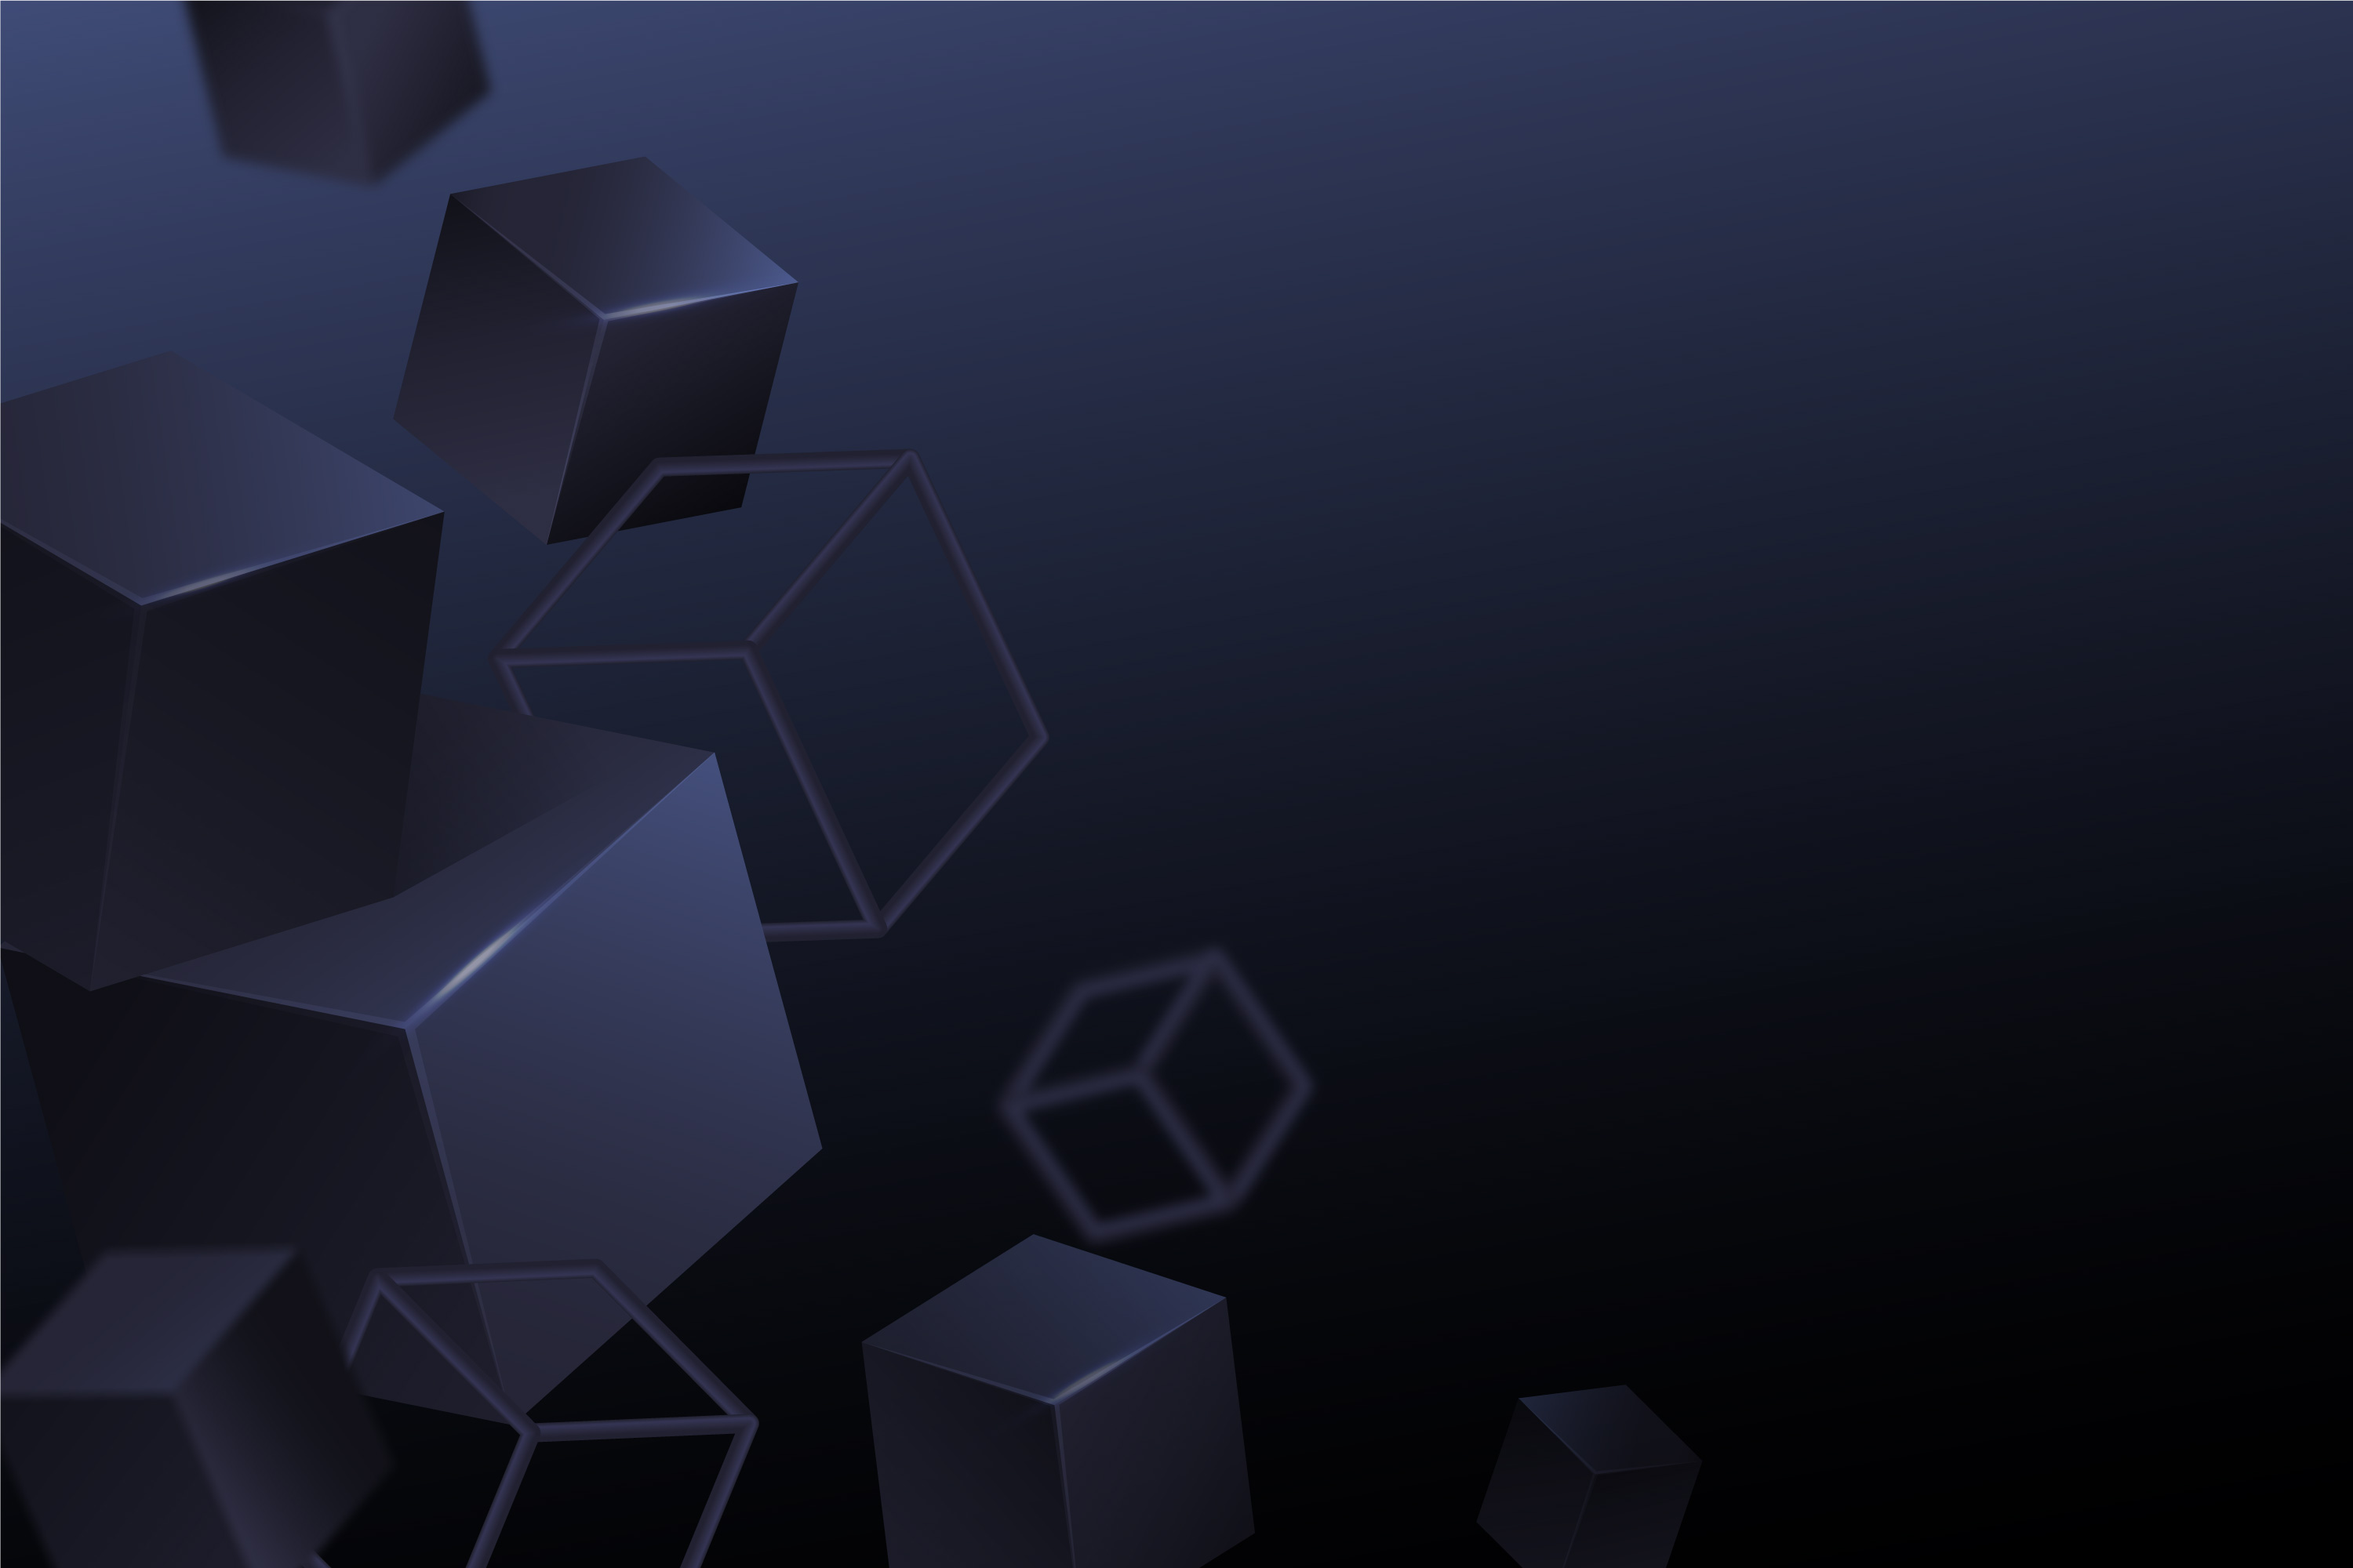
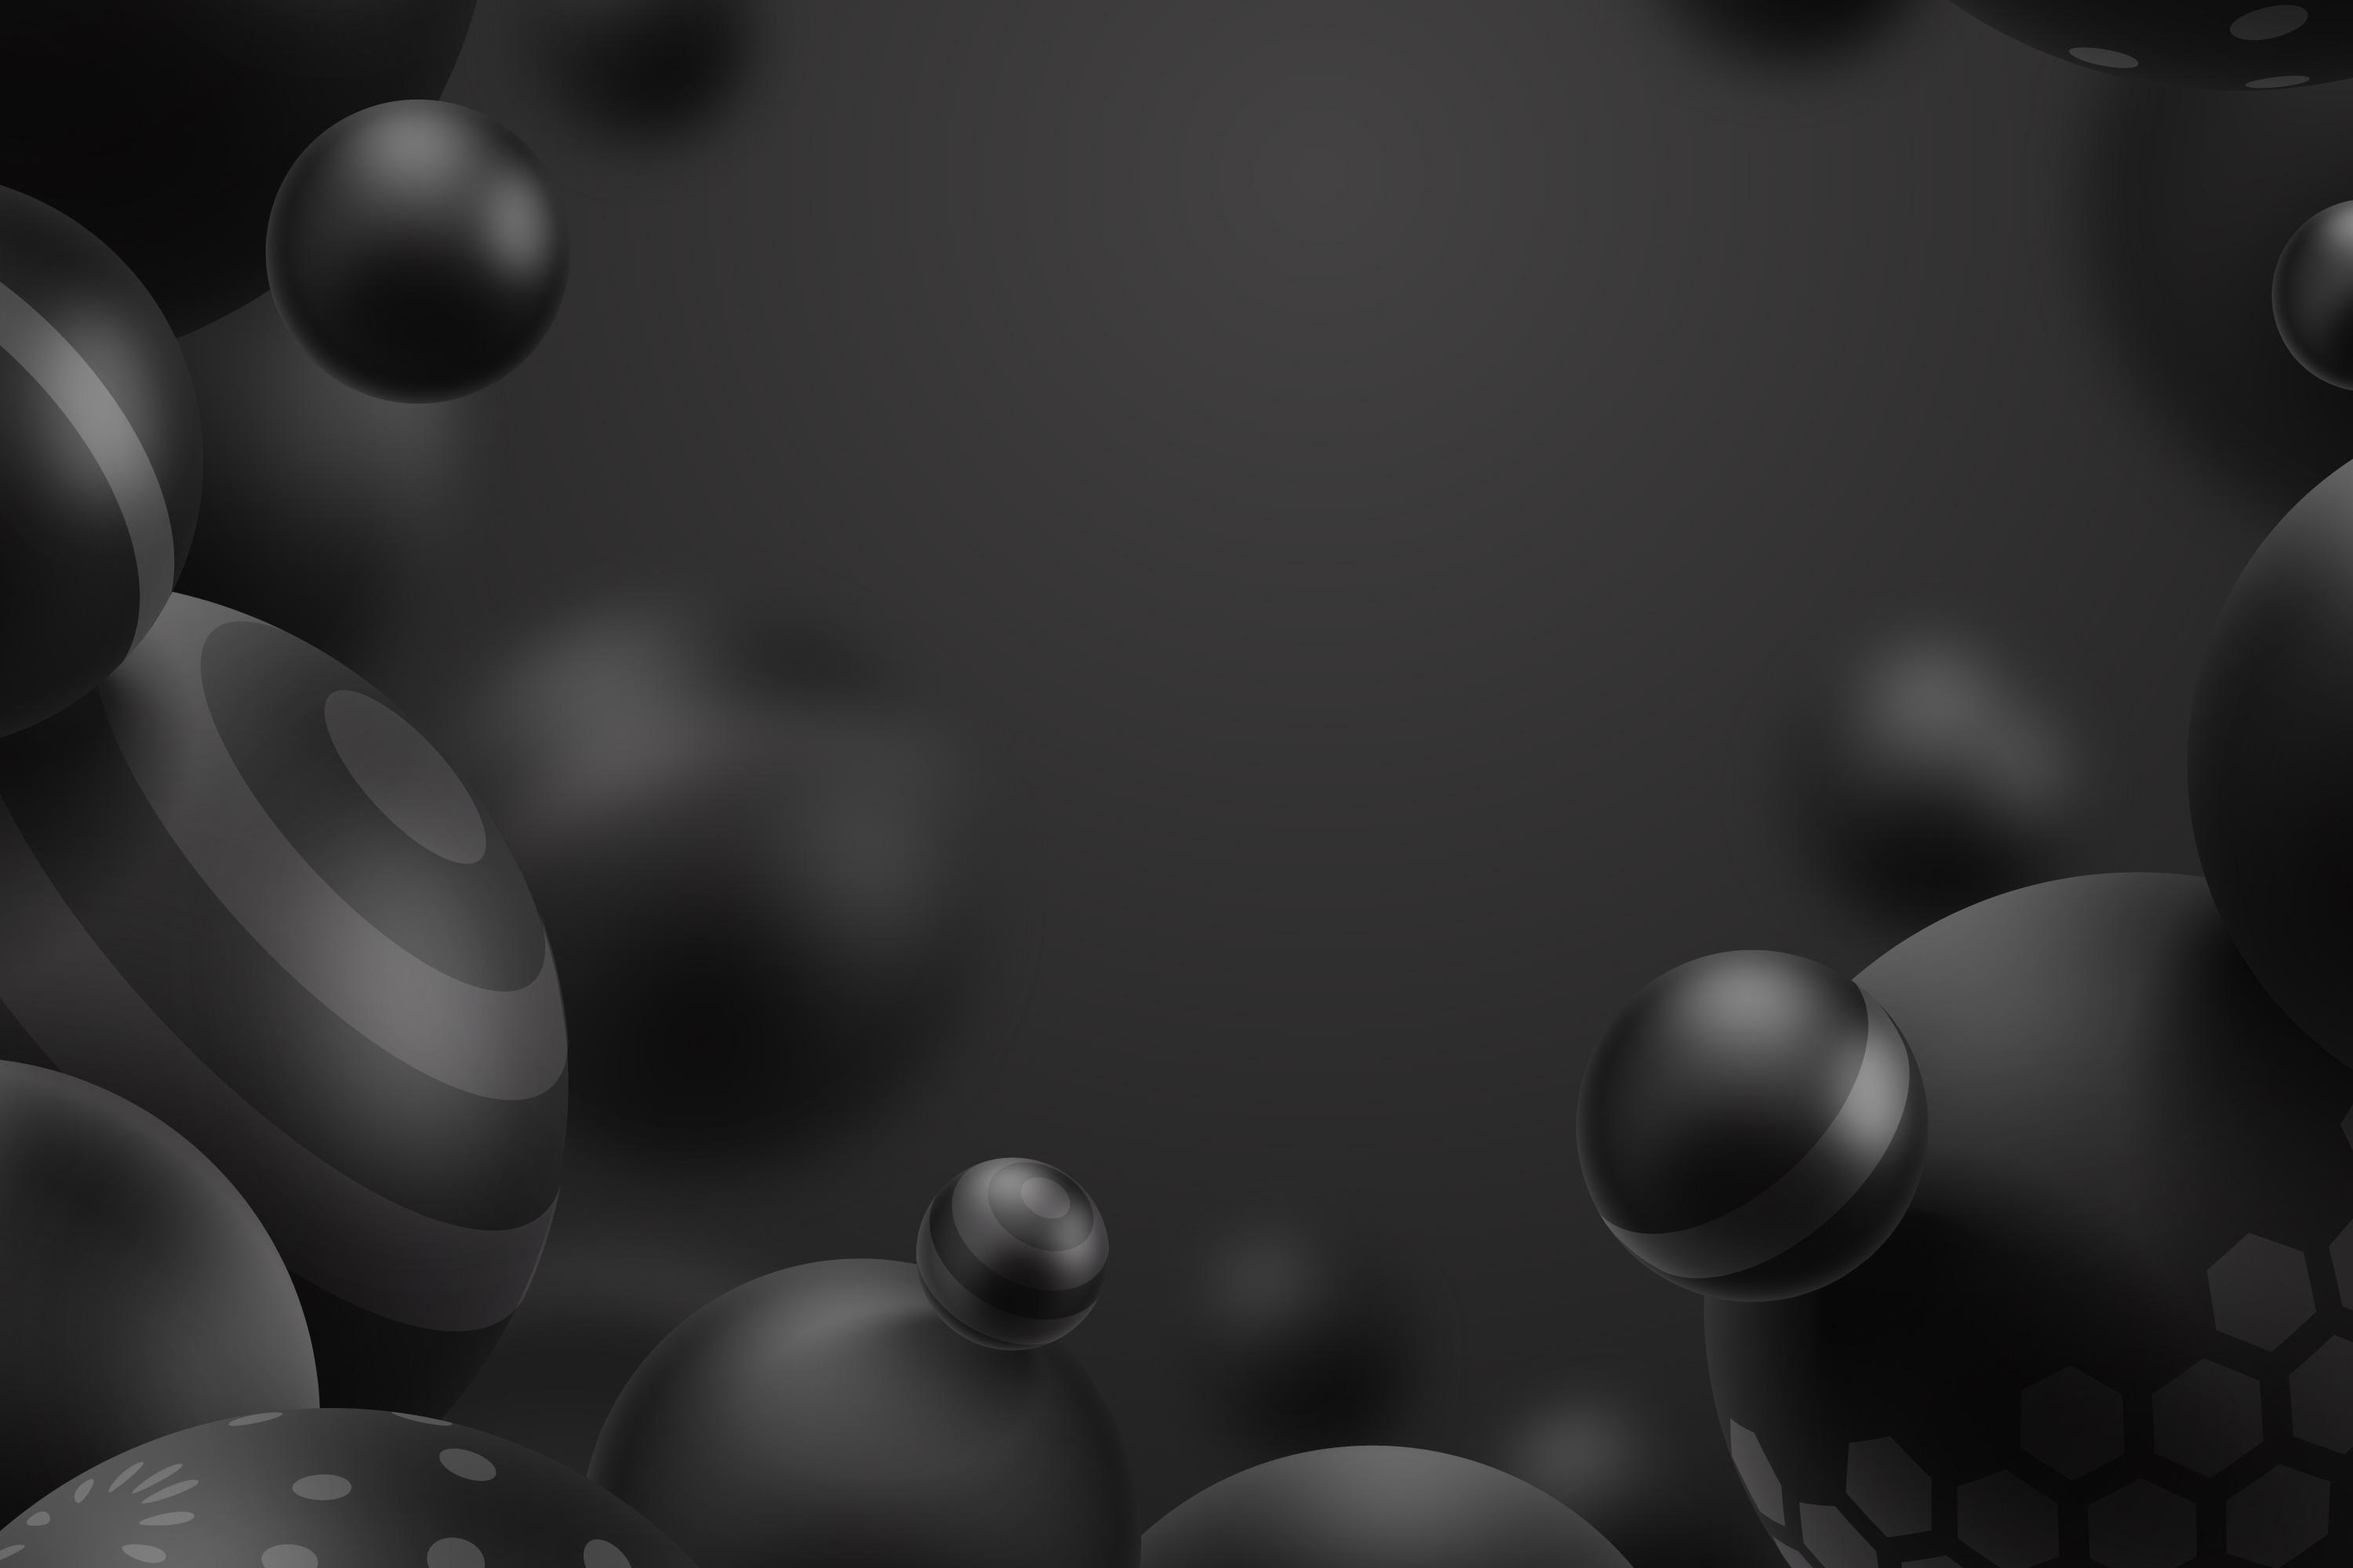
Updates background and about section

diff --git a/helper/data.tsx b/helper/data.tsx
@@ -17,6 +17,13 @@ import {
   SiFramer,
   SiGraphql,
   SiMysql,
+  SiPostgresql,
+  SiMongodb,
+  SiMongoose,
+  SiLaravel,
+  SiNestjs,
+  SiExpress,
+  SiBootstrap,
 } from "react-icons/si";
 
 export const aboutData = [
@@ -24,29 +31,33 @@ export const aboutData = [
     title: "skills",
     info: [
       {
-        title: "Web Development",
+        title: "Programing Languages",
+        stage: "",
+        icons: [<FaJs key={1} />, <FaPhp key={2} />],
+      },
+      {
+        title: "Database",
         stage: "",
         icons: [
-          <FaHtml5 key={1} />,
-          <FaCss3 key={2} />,
-          <FaJs key={3} />,
-          <FaReact key={4} />,
-          <FaPhp key={5} />,
-          <SiNextdotjs key={6} />,
-          <FaMagento key={7} />,
-          <SiTailwindcss key={8} />,
-          <FaNodeJs key={9} />,
-          <SiGraphql key={10} />,
-          <SiMysql key={11} />,
+          <SiMysql key={3} />,
+          <SiPostgresql key={4} />,
+          <SiMongodb key={5} />,
+          <SiMongoose key={6} />,
         ],
       },
       {
-        title: "UI / UX",
-        icons: [<SiFramer key={1} />],
+        title: "Web Framework",
+        stage: "",
+        icons: [
+          <SiLaravel key={7} />,
+          <SiNestjs key={8} />,
+          <SiExpress key={9} />,
+        ],
       },
       {
-        title: "Word Processing",
-        icons: [<SiMicrosoftword key={2} />],
+        title: "Css Framework",
+        stage: "",
+        icons: [<SiBootstrap key={10} />, <SiTailwindcss key={11} />],
       },
     ],
   },
@@ -54,23 +65,48 @@ export const aboutData = [
     title: "experience",
     info: [
       {
-        title: "Frontend Developer - EVE",
-        stage: "July 2024 - Present",
+        title: "Senior Developer  - Cloudax",
+        stage: "Feb 2024 - Present",
         icons: [],
       },
       {
         title: "Fullstack Developer - Freelance",
-        stage: "May 2024 - July 2024",
+        stage: "May 2018 - Present",
         icons: [],
       },
       {
-        title: "Junior Web Developer - Scandiweb",
-        stage: "September 2022 - June 2023",
+        title: "Web Developer  - Screenpages (Contract)",
+        stage: "Jan 2023 - May 2023",
         icons: [],
       },
       {
-        title: "React Intern - LinuxJobber",
-        stage: "2022",
+        title: "Web Developer  - Corra (Contract)",
+        stage: "Dec 2021 - Dec 2022",
+        icons: [],
+      },
+      {
+        title: "Web Developer  - Scandiweb (Contract)",
+        stage: "May 2021 - June 2023",
+        icons: [],
+      },
+      {
+        title: "Fullstack Developer - Techclub Ng (Freelance)",
+        stage: "Mar 2022 - Present",
+        icons: [],
+      },
+      {
+        title: "Fullstack Developer/Tutor - Techclub Ng",
+        stage: "Feb 2020 - 2022",
+        icons: [],
+      },
+      {
+        title: "Intern - Linuxjobber",
+        stage: "Nov 2019 - Feb 2020",
+        icons: [],
+      },
+      {
+        title: "Intern - Rich Technologies",
+        stage: "Feb 2017 - December 2017",
         icons: [],
       },
     ],
@@ -79,13 +115,8 @@ export const aboutData = [
     title: "Education",
     info: [
       {
-        title: "Bachelor Of Engineering - University Of Benin",
-        stage: "2018 - 2022",
-        icons: [],
-      },
-      {
-        title: "SSCE - Institutue Of Continuous Education",
-        stage: "2016",
+        title: "BSc. Computer Science - University Of Benin",
+        stage: "",
         icons: [],
       },
     ],

diff --git a/pages/about/index.tsx b/pages/about/index.tsx
@@ -31,16 +31,18 @@ const About = () => {
             exit="hidden"
             className=" text-sm md:text-lg max-w-[500px] text-black mx-auto xl:mx-0 mb-6 xl:mb-12 px-2 xl:px-0 dark:text-white"
           >
-            Hey there! I’m a full-stack developer with a solid background in PHP
-            (especially Laravel), JavaScript, and TypeScript. I’ve been building
-            apps and APIs for over 4 years — everything from financial tools to
-            eCommerce platforms. I love writing clean, scalable code and
-            figuring out how to make things faster, smoother, and more
-            intuitive. I’ve worked across the stack, dabbled in DevOps, and I’m
-            always up for learning something new. When I’m not coding, I’m
-            probably gaming (CODM is my go-to), reading something techy or
-            motivational, or just catching up with friends and family. Let’s
-            build something cool together.
+            I started my coding journey in 2015 and landed my first internship
+            in 2017 while studying Computer Science. After earning my degree in
+            2018, I’ve continued to grow as a full-stack developer, working on
+            everything from financial tools to eCommerce platforms. My core
+            stack includes PHP (especially Laravel), JavaScript/TypeScript,
+            React, NestJS and Golang, and I’m comfortable across both backend
+            and frontend. I care about writing clean, maintainable code and
+            building user-friendly, high-performing apps. Whether it’s
+            collaborating with a team or building solo projects, I’m always
+            learning, always building. When I’m not coding, you’ll probably find
+            me gaming, reading tech blogs or hanging out with friends and
+            family.
           </motion.p>
           {/* countUp */}
           <motion.div
@@ -53,7 +55,7 @@ const About = () => {
             <div className="flex flex-1 gap-x-6">
               <div className="relative flex-1 after:w-[1px] after:h-full after:bg-white/10 after:absolute after:top-0 after:right-0">
                 <div className="text-2xl xl:text-4xl font-extrabold text-accent mb-2">
-                  <CountUp start={0} end={5} duration={7} /> +
+                  <CountUp start={0} end={8} duration={7} /> +
                 </div>
                 <div className="text-xs uppercase tracking-[1px] leading[1.4] xl:max-w-[100px]">
                   Year of experience

diff --git a/pages/index.tsx b/pages/index.tsx
@@ -53,11 +53,10 @@ const Home = () => {
             exit="hidden"
             className="max-w-sm text-black xl:max-w-xl mx-auto xl:mx-0 mb-10 xl:mb-16 vsm:-mt-3 xl:text-xl xl:-mt-5 dark:text-white"
           >
-            I’m a full-stack dev who loves turning complex problems into simple,
-            elegant solutions on the web. With 4+ years of experience in
-            Laravel, JavaScript, and modern frameworks like React and NestJS, I
-            build things that work well, look good, and scale smart. Always
-            learning, always building.
+            I’m a full-stack developer who’s been coding since 2015. I love
+            building clean, scalable web apps using Laravel, JavaScript, React,
+            NestJS and Golang. From backend logic to frontend polish, I enjoy
+            turning ideas into digital products that just work.
             <Link
               href="https://drive.google.com/file/d/1vtIGvqEoWWSNHkUYFQJsWPFkeTC-CqnG/view?usp=sharing"
               target="_blank"
